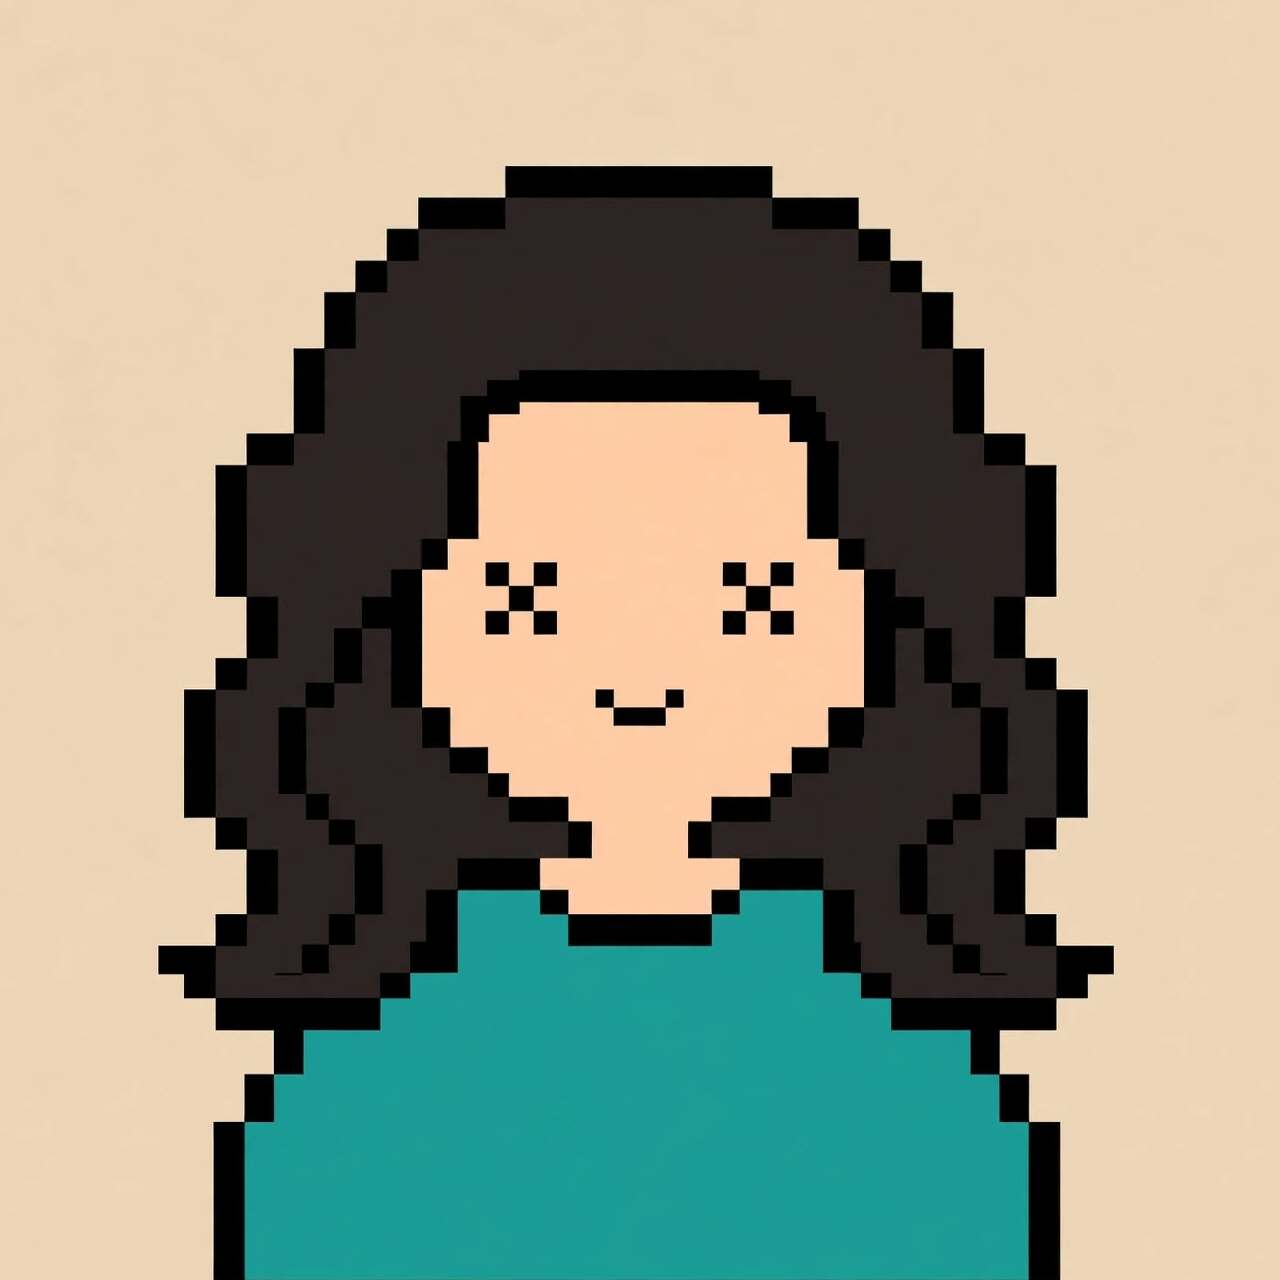
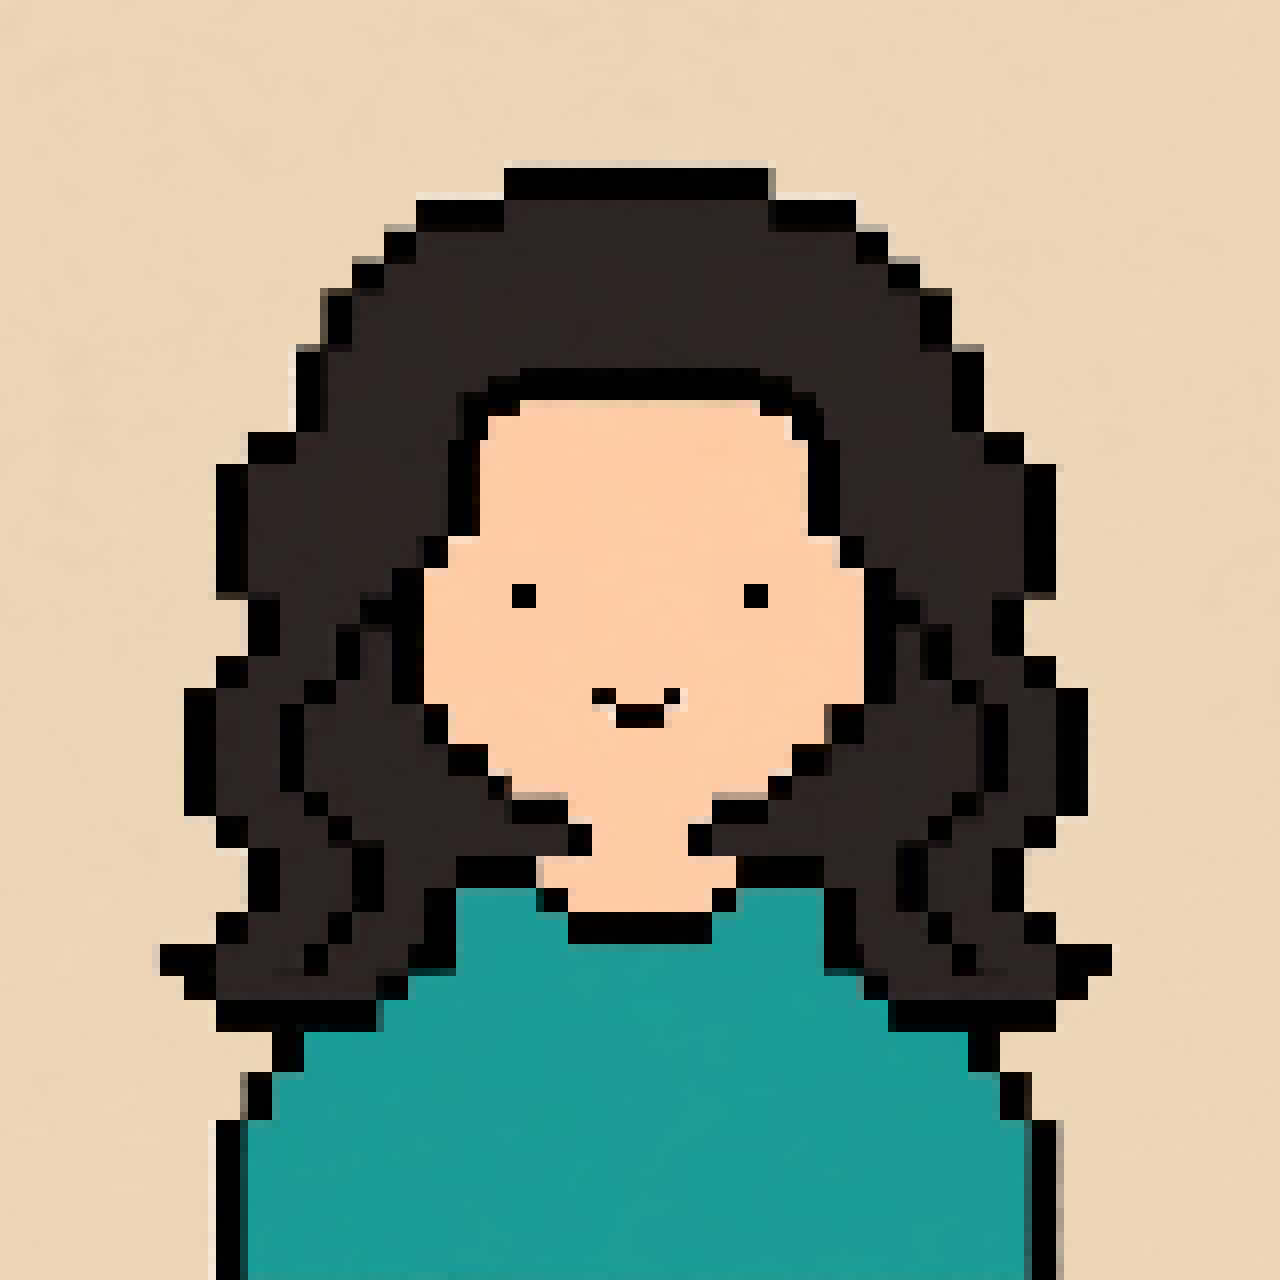
feat: crosswords minigame

diff --git a/minigames/crosswords.html b/minigames/crosswords.html
@@ -1,0 +1,360 @@
+<!DOCTYPE html>
+<html lang="en">
+<head>
+<meta charset="UTF-8">
+<meta name="viewport" content="width=device-width, initial-scale=1">
+<title>Privacy Crossword - Fixed Direction</title>
+<link href="https://fonts.googleapis.com/css2?family=Nunito:wght@600;700;800&display=swap" rel="stylesheet">
+<style>
+  *{box-sizing:border-box}
+  body{margin:0;font-family:'Nunito',sans-serif;background:#E8DCC8;color:#111;display:flex;justify-content:center;padding:20px}
+  .wrap{max-width:1100px;width:100%;display:grid;grid-template-columns:auto 320px;gap:24px}
+  @media(max-width:900px){.wrap{grid-template-columns:1fr}}
+  .board{background:#fff;border:3px solid #000;border-radius:20px;padding:16px;box-shadow:6px 6px 0 #000}
+  .grid{display:grid;gap:3px;background:#000;border:3px solid #000;border-radius:10px;padding:3px;width:fit-content}
+  .cell{width:42px;height:42px;background:#fff;position:relative;display:flex;align-items:center;justify-content:center}
+  .cell.black{background:#111}
+  .cell.locked{background:#B8E6C8}
+  .cell.selected{outline:3px solid #7AA8FF;z-index:2}
+  .cell input{width:100%;height:100%;border:none;text-align:center;font-size:20px;font-weight:800;text-transform:uppercase;background:transparent;outline:none}
+  .cell.locked input{color:#0a5a2a;font-weight:900}
+  .num{position:absolute;top:2px;left:3px;font-size:9px;font-weight:800;line-height:1}
+  .side{display:flex;flex-direction:column;gap:16px}
+  .card{background:#fff;border:3px solid #000;border-radius:18px;padding:14px;box-shadow:5px 5px 0 #000}
+  .card h3{margin:0 0 10px;font-size:16px;font-weight:900;text-transform:uppercase}
+  .bank{display:flex;flex-wrap:wrap;gap:8px}
+  .pill{border:2.5px solid #000;border-radius:999px;padding:5px 12px;font-weight:800;font-size:13px;background:#F7F1E6;display:inline-flex;align-items:center;gap:6px}
+  .pill.done{background:#B8E6C8;text-decoration:line-through}
+  .clue{padding:6px 8px;border-radius:10px;font-size:14px;line-height:1.3;cursor:pointer}
+  .clue:hover{background:#F7F1E6}
+  .clue.done{text-decoration:line-through;opacity:0.6;background:#B8E6C8}
+  .btns{display:flex;gap:10px;flex-wrap:wrap}
+  .btn{border:3px solid #000;border-radius:12px;padding:10px 16px;font-weight:900;cursor:pointer;background:#FFD86E;box-shadow:3px 3px 0 #000}
+  .btn:active{transform:translate(2px,2px);box-shadow:1px 1px 0 #000}
+  .btn.secondary{background:#fff}
+
+  .celebration{position:fixed;inset:0;pointer-events:none;z-index:999;overflow:hidden}
+  .emoji-drop{position:absolute;top:-40px;font-size:28px;animation:emojiFall linear forwards}
+  @keyframes emojiFall{
+    0%{transform:translateY(-40px) rotate(0deg); opacity:1}
+    100%{transform:translateY(110vh) rotate(360deg); opacity:0}
+  }
+</style>
+</head>
+<body>
+<a href="../chats/mum.html" class="text-[13px] font-extrabold px-3 py-1.5 rounded-full bg-white shadow-sm border border-black/10 hover:bg-white transition text-black" style="position:fixed;top:12px;left:12px;z-index:100;font-size:13px;font-weight:800;padding:6px 12px;border-radius:9999px;background:white;box-shadow:0 1px 2px rgba(0,0,0,0.1);border:1px solid rgba(0,0,0,0.1);color:rgb(17,17,17);text-decoration:none;display:inline-flex;align-items:center;">← Mum</a>
+
+<div class="wrap">
+  <div class="board">
+    <div id="grid" class="grid"></div>
+    <div class="btns" style="margin-top:16px;">
+      <button class="btn" id="checkBtn">Check</button>
+      <button class="btn secondary" id="revealBtn">Reveal</button>
+      <button class="btn secondary" id="clearBtn">Clear</button>
+    </div>
+  </div>
+  <div class="side">
+    <div class="card"><h3>Word Bank</h3><div id="bank" class="bank"></div></div>
+    <div class="card"><h3>Across</h3><div id="across"></div></div>
+    <div class="card"><h3>Down</h3><div id="down"></div></div>
+  </div>
+</div>
+
+<script>
+const WORD_LIST = [
+  { word: "PRIVACY",   clue: "Your right to control your personal info" },
+  { word: "COOKIES",   clue: "Small files sites save to remember you" },
+  { word: "TRACKING",  clue: "Following what you watch or click across apps" },
+  { word: "CONSENT",   clue: "Saying yes to data collection" },
+  { word: "INCOGNITO", clue: "Mode that doesn't save history on your device" },
+  { word: "PASSWORD",  clue: "Secret to protect an account" },
+  { word: "PHISHING",  clue: "Fake message trying to steal info" },
+  { word: "BREACH",    clue: "When private data leaks out" },
+];
+
+const PLACEMENTS = [
+  { word: "PRIVACY",   row: 7, col: 5, dir: "across" },
+  { word: "TRACKING",  row: 2, col: 7, dir: "down"   },
+  { word: "BREACH",    row: 3, col:10, dir: "down"   },
+  { word: "PASSWORD",  row: 7, col: 5, dir: "down"   },
+  { word: "INCOGNITO", row: 2, col: 0, dir: "across" },
+  { word: "PHISHING",  row: 0, col: 0, dir: "down"   },
+  { word: "CONSENT",   row: 2, col: 2, dir: "down"   },
+  { word: "COOKIES",   row:12, col: 4, dir: "across" },
+];
+
+const ROWS = 15, COLS = 12;
+let solution = {};
+let numberMap = {};
+let cellEls = {};
+let lockedCells = new Set();
+let lockedWords = new Set();
+let selected = null;
+let currentDir = "down"; // start down so PHISHING column works naturally
+
+function key(r,c){ return r+","+c; }
+
+function buildSolution(){
+  for(let p of PLACEMENTS){
+    for(let i=0;i<p.word.length;i++){
+      let r = p.row + (p.dir==="down"?i:0);
+      let c = p.col + (p.dir==="across"?i:0);
+      solution[key(r,c)] = p.word[i];
+    }
+  }
+}
+
+function assignNumbers(){
+  let starts = {};
+  for(let p of PLACEMENTS){
+    let k = key(p.row,p.col);
+    if(!(k in starts)) starts[k]=true;
+  }
+  let sorted = Object.keys(starts).sort((a,b)=>{
+    let [ra,ca]=a.split(",").map(Number);
+    let [rb,cb]=b.split(",").map(Number);
+    return ra-rb || ca-cb;
+  });
+  let n=1;
+  for(let k of sorted) numberMap[k]=n++;
+}
+
+function createGrid(){
+  const gridEl = document.getElementById("grid");
+  gridEl.style.gridTemplateColumns = `repeat(${COLS}, 42px)`;
+  gridEl.style.gridTemplateRows = `repeat(${ROWS}, 42px)`;
+  for(let r=0;r<ROWS;r++){
+    for(let c=0;c<COLS;c++){
+      let k = key(r,c);
+      let div = document.createElement("div");
+      div.className = "cell";
+      if(!(k in solution)){
+        div.classList.add("black");
+        gridEl.appendChild(div);
+        continue;
+      }
+      if(numberMap[k]){
+        let numEl = document.createElement("div");
+        numEl.className = "num";
+        numEl.textContent = numberMap[k];
+        div.appendChild(numEl);
+      }
+      let inp = document.createElement("input");
+      inp.maxLength = 1;
+      inp.dataset.r = r; inp.dataset.c = c;
+      inp.addEventListener("input", onInput);
+      inp.addEventListener("keydown", onKeyDown);
+      inp.addEventListener("focus", ()=>selectCell(r,c,false));
+      div.appendChild(inp);
+      div.addEventListener("click", ()=>{
+        // clicking same cell toggles direction
+        if(selected && selected.r===r && selected.c===c){
+          selectCell(r,c,true);
+        } else {
+          inp.focus();
+          selectCell(r,c,false);
+        }
+      });
+      cellEls[k] = {cellDiv:div, input:inp};
+      gridEl.appendChild(div);
+    }
+  }
+}
+
+function getPlacementsAt(r,c){
+  return PLACEMENTS.filter(p=>{
+    if(p.dir==="across") return r===p.row && c>=p.col && c<p.col+p.word.length;
+    else return c===p.col && r>=p.row && r<p.row+p.word.length;
+  });
+}
+
+function selectCell(r,c, toggle){
+  if(lockedCells.has(key(r,c))) return;
+  let available = getPlacementsAt(r,c).map(p=>p.dir);
+  if(toggle && available.length>1){
+    currentDir = currentDir==="across"?"down":"across";
+    if(!available.includes(currentDir)) currentDir = available[0];
+  } else {
+    if(available.length>0 && !available.includes(currentDir)){
+      currentDir = available[0];
+    }
+  }
+  if(selected){
+    let prev = cellEls[key(selected.r,selected.c)];
+    if(prev) prev.cellDiv.classList.remove("selected");
+  }
+  selected = {r,c};
+  let cur = cellEls[key(r,c)];
+  if(cur) cur.cellDiv.classList.add("selected");
+}
+
+function onInput(e){
+  let inp = e.target;
+  let r = Number(inp.dataset.r), c = Number(inp.dataset.c);
+  let k = key(r,c);
+  if(lockedCells.has(k)){ inp.value = solution[k]; return; }
+  let v = inp.value.toUpperCase().replace(/[^A-Z]/g,"");
+  inp.value = v;
+  if(v){
+    checkWordsAt(r,c);
+    moveNext(r,c);
+  }
+}
+
+function onKeyDown(e){
+  if(e.key==="Backspace" && !e.target.value){
+    let r = Number(e.target.dataset.r), c = Number(e.target.dataset.c);
+    // move back in currentDir
+    let nr = r - (currentDir==="down"?1:0);
+    let nc = c - (currentDir==="across"?1:0);
+    let k = key(nr,nc);
+    if(cellEls[k] && !lockedCells.has(k)){
+      e.preventDefault();
+      cellEls[k].input.focus();
+      cellEls[k].input.value = "";
+      selectCell(nr,nc,false);
+    }
+  }
+  if(e.key==="ArrowRight"){ currentDir="across"; moveDir(0,1); }
+  if(e.key==="ArrowLeft"){ currentDir="across"; moveDir(0,-1); }
+  if(e.key==="ArrowDown"){ currentDir="down"; moveDir(1,0); }
+  if(e.key==="ArrowUp"){ currentDir="down"; moveDir(-1,0); }
+}
+
+function moveDir(dr,dc){
+  if(!selected) return;
+  let nr = selected.r+dr, nc = selected.c+dc;
+  let k = key(nr,nc);
+  if(cellEls[k] && !lockedCells.has(k)){
+    cellEls[k].input.focus();
+    selectCell(nr,nc,false);
+  }
+}
+
+function isWordCorrect(p){
+  for(let i=0;i<p.word.length;i++){
+    let r = p.row + (p.dir==="down"?i:0);
+    let c = p.col + (p.dir==="across"?i:0);
+    let el = cellEls[key(r,c)];
+    if(!el) return false;
+    if(el.input.value.toUpperCase() !== p.word[i]) return false;
+  }
+  return true;
+}
+
+function dropCelebration(){
+  // create container if not exists
+  let container = document.getElementById("celebration");
+  if(!container){
+    container = document.createElement("div");
+    container.id = "celebration";
+    container.className = "celebration";
+    document.body.appendChild(container);
+  }
+  container.innerHTML = "";
+  const emojis = ["🎉","🎊","🎉","🎊","✨","🎉","🎊"];
+  for(let i=0;i<35;i++){
+    let span = document.createElement("span");
+    span.className = "emoji-drop";
+    span.textContent = emojis[i % emojis.length];
+    span.style.left = Math.random()*100 + "vw";
+    span.style.animationDuration = (1.5 + Math.random()*2) + "s";
+    span.style.animationDelay = (Math.random()*0.5) + "s";
+    container.appendChild(span);
+  }
+  // remove after animation
+  setTimeout(()=>{ container.innerHTML=""; }, 4000);
+}
+
+function checkWordsAt(r,c){
+  for(let p of getPlacementsAt(r,c)){
+    if(lockedWords.has(p.word)) continue;
+    if(isWordCorrect(p)) lockWord(p);
+  }
+  if(lockedWords.size===PLACEMENTS.length){
+    setTimeout(()=>{ dropCelebration(); },200);
+  }
+}
+
+function lockWord(p){
+  if(lockedWords.has(p.word)) return;
+  lockedWords.add(p.word);
+  for(let i=0;i<p.word.length;i++){
+    let r = p.row + (p.dir==="down"?i:0);
+    let c = p.col + (p.dir==="across"?i:0);
+    let k = key(r,c);
+    lockedCells.add(k);
+    let el = cellEls[k];
+    if(el){
+      el.cellDiv.classList.add("locked");
+      el.input.readOnly = true;
+    }
+  }
+  renderBank(); renderClues();
+}
+
+function renderBank(){
+  const bankEl = document.getElementById("bank");
+  bankEl.innerHTML="";
+  let sorted=[...WORD_LIST].sort((a,b)=>a.word.localeCompare(b.word));
+  for(let w of sorted){
+    let pill=document.createElement("div");
+    pill.className="pill"+(lockedWords.has(w.word)?" done":"");
+    pill.textContent=w.word+(lockedWords.has(w.word)?" 🔒":"");
+    bankEl.appendChild(pill);
+  }
+}
+
+function renderClues(){
+  const acrossEl=document.getElementById("across");
+  const downEl=document.getElementById("down");
+  acrossEl.innerHTML=""; downEl.innerHTML="";
+  for(let p of PLACEMENTS){
+    let num=numberMap[key(p.row,p.col)];
+    let info=WORD_LIST.find(w=>w.word===p.word);
+    let div=document.createElement("div");
+    div.className="clue"+(lockedWords.has(p.word)?" done":"");
+    div.textContent=`${num}. ${info.clue} (${p.word.length})`;
+    div.onclick=()=>focusWord(p);
+    if(p.dir==="across") acrossEl.appendChild(div); else downEl.appendChild(div);
+  }
+}
+
+function focusWord(p){
+  currentDir=p.dir;
+  let el=cellEls[key(p.row,p.col)];
+  if(el && !lockedCells.has(key(p.row,p.col))){
+    el.input.focus();
+    selectCell(p.row,p.col,false);
+  }
+}
+
+function moveNext(r,c){
+  // CRITICAL FIX: always continue in currentDir, never auto-switch to other direction at intersection
+  // This fixes PHISHING bug where after I at (2,0) it jumped to (2,1) instead of (3,0)
+  let nr = r + (currentDir==="down"?1:0);
+  let nc = c + (currentDir==="across"?1:0);
+  let k = key(nr,nc);
+  if(cellEls[k] && !lockedCells.has(k)){
+    cellEls[k].input.focus();
+    selectCell(nr,nc,false);
+  }
+}
+
+function checkAll(){ for(let p of PLACEMENTS) if(isWordCorrect(p)) lockWord(p); }
+function revealAll(){
+  for(let k in solution){ let el=cellEls[k]; if(el) el.input.value=solution[k]; }
+  for(let p of PLACEMENTS) lockWord(p);
+}
+function clearAll(){
+  for(let k in cellEls){ if(lockedCells.has(k)) continue; cellEls[k].input.value=""; }
+}
+
+document.getElementById("checkBtn").onclick=checkAll;
+document.getElementById("revealBtn").onclick=revealAll;
+document.getElementById("clearBtn").onclick=clearAll;
+
+buildSolution(); assignNumbers(); createGrid(); renderBank(); renderClues();
+</script>
+</body>
+</html>
